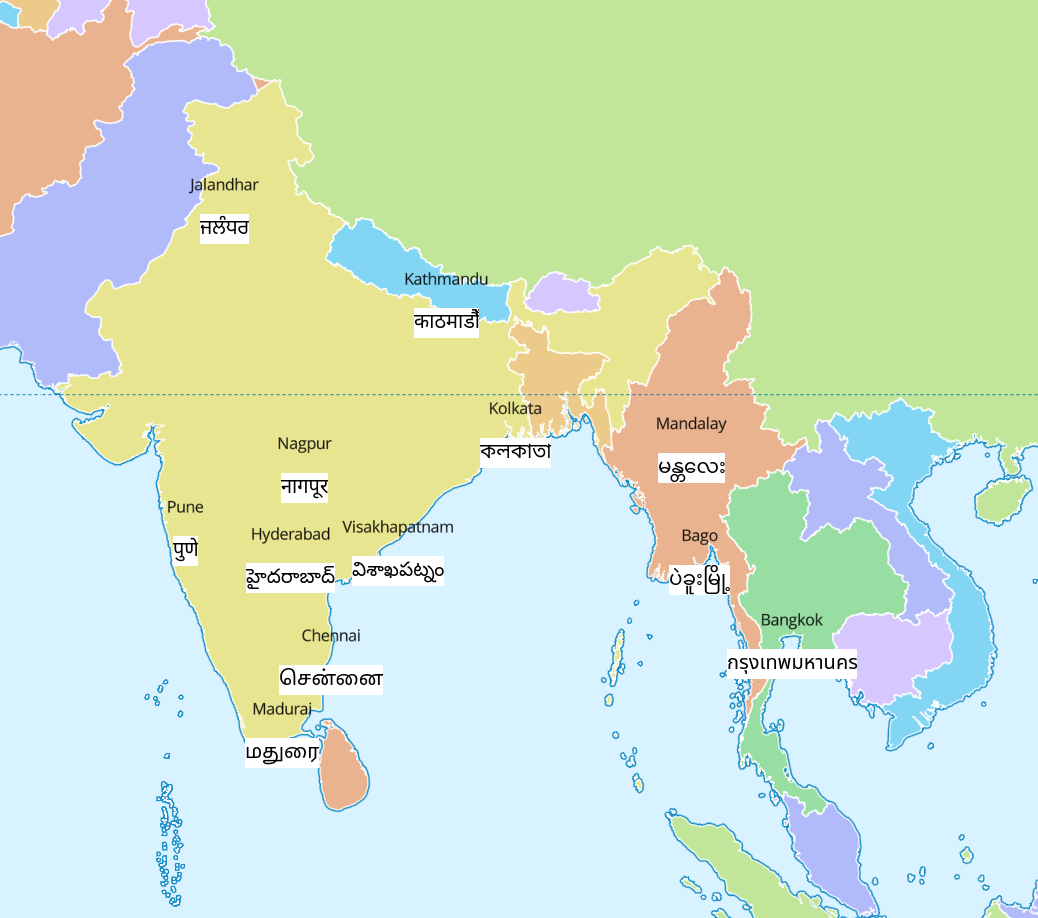
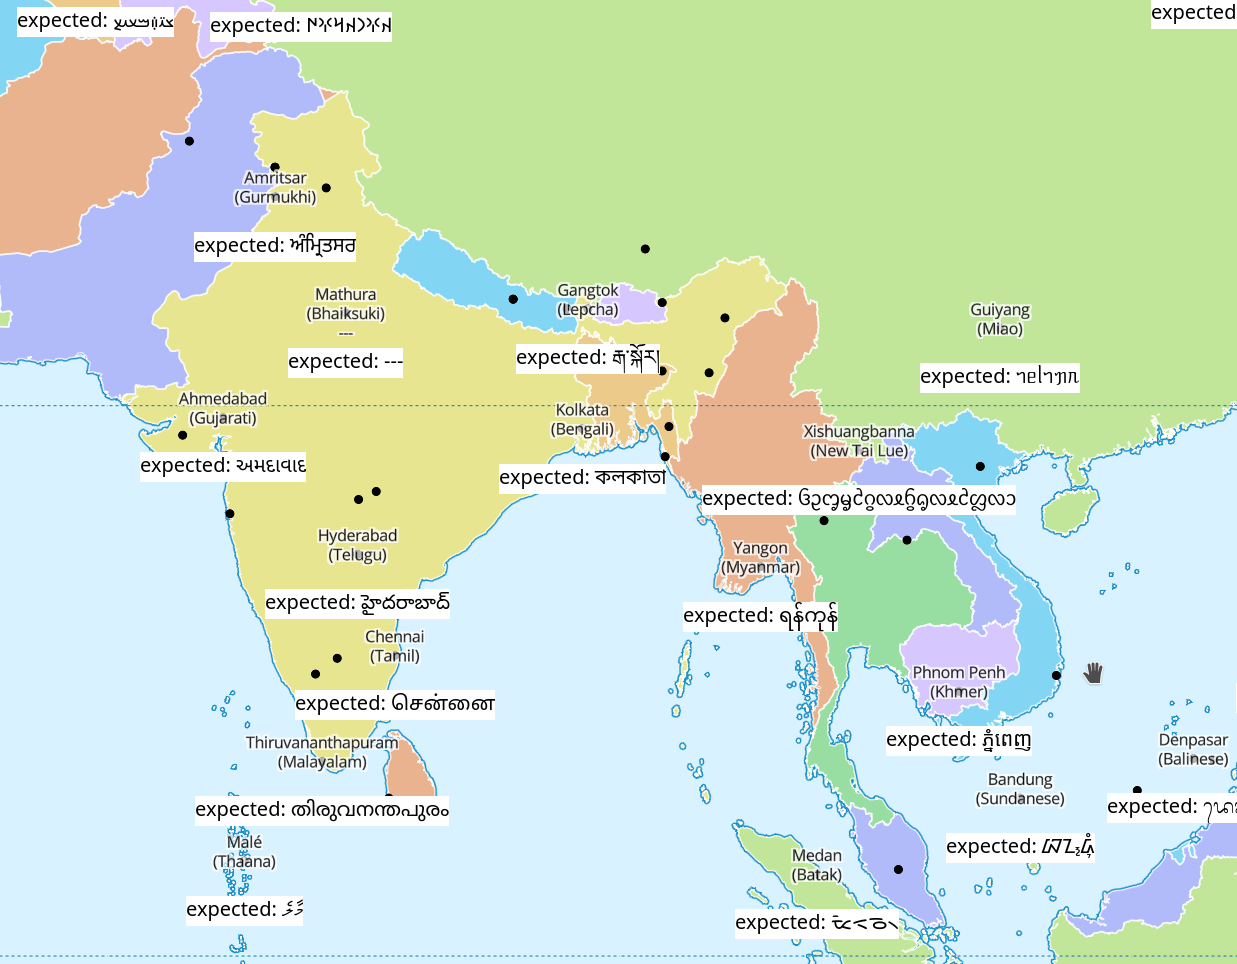
Use ChatGPT generated tests

diff --git a/index.html b/index.html
@@ -50,7 +50,7 @@
 
             // check if this missing icon is one this function can generate
 
-            var text = id;
+            var text = `expected: ${id}`;
             var fontSize = 20;
             
             ctx.font = `${fontSize}px sans`;
@@ -82,6 +82,15 @@
                     });
 
                     map.addLayer({
+                        'id': 'points',
+                        'type': 'circle',
+                        'source': 'tests',
+                        'layout': {
+                            
+                        }
+                    });
+
+                    map.addLayer({
                         'id': 'tests',
                         'type': 'symbol',
                         'source': 'tests',
@@ -89,31 +98,25 @@
                             'text-field': [
                                 'format',
                                 ['get', 'name'],
+                                '\n(',
                                 {},
-                                '\n',
+                                ['get', 'script'],
+                                {},
+                                ')\n',
                                 {},
                                 ['get', 'native_name'],
                                 {}
                             ],
                             'icon-image': ['get', 'native_name'],
-                            'icon-offset': [0, 35],
+                            'icon-offset': [0, 50],
+                        },
+                        'paint': {
+                            'text-halo-width': 3,
+                            'text-halo-color': 'rgba(255, 255, 255, 0.7)'
                         }
                     });
                 });
             });
-
-        // map.on('load', () => {
-        //     map.addLayer({
-        //         'id': 'maine',
-        //         'type': 'fill',
-        //         'source': 'maine',
-        //         'layout': {},
-        //         'paint': {
-        //             'fill-color': '#088',
-        //             'fill-opacity': 0.8
-        //         }
-        //     });
-        // });
     </script>
 </body>
 

diff --git a/csv_to_geojson.py b/csv_to_geojson.py
@@ -1,0 +1,31 @@
+import json
+import csv
+
+geojson = {
+    "type": "FeatureCollection",
+    "features": []
+}
+
+with open('tests.csv') as f:
+    csv_reader = csv.DictReader(f)
+
+    for row in csv_reader:
+        feature = {
+            "type": "Feature",
+            "geometry": {
+                "type": "Point",
+                "coordinates": [
+                    float(row['Longitude']),
+                    float(row['Latitude'])
+                ]
+            },
+            "properties": {
+                "name": row['English Name'],
+                "native_name": row['Native Name'],
+                "script": row['Script']
+            }
+        }
+        geojson['features'].append(feature)
+    
+    with open('tests.geojson', 'w') as f:
+        json.dump(geojson, f)

diff --git a/README.md b/README.md
@@ -1,11 +1,15 @@
 # i18n-testsuite-maplibre
 A set of labels in languages that MapLibre GL JS cannot render.
 
-The file `test.geojson` has a few cities in India and South-East Asian contries with the English name stored in the `name` property and a native name stored in the `native_name` property.
+The file `tests.geojson` has a few cities in India and South-East Asian contries with the English name stored in the `name` property and a native name stored in the `native_name` property.
 
 MapLibre GL JS can currently (v3.3.1) not render any of the `native_name`s.
 
 To show the expected label, we add a canvas-generated image with a white background below MapLibre labels.
+
+Unicode defines a list of scripts which require text shaping, see https://cldr.unicode.org/development/updating-codes/updating-script-metadata.
+
+I took the list of script which require text shaping, and gave it to ChatGPT with the task "give me a city with geolocation for each of the following scripts...". Since these tests are generated by a language model, it is not certain that they are correct...
 
 ## Demo
 
